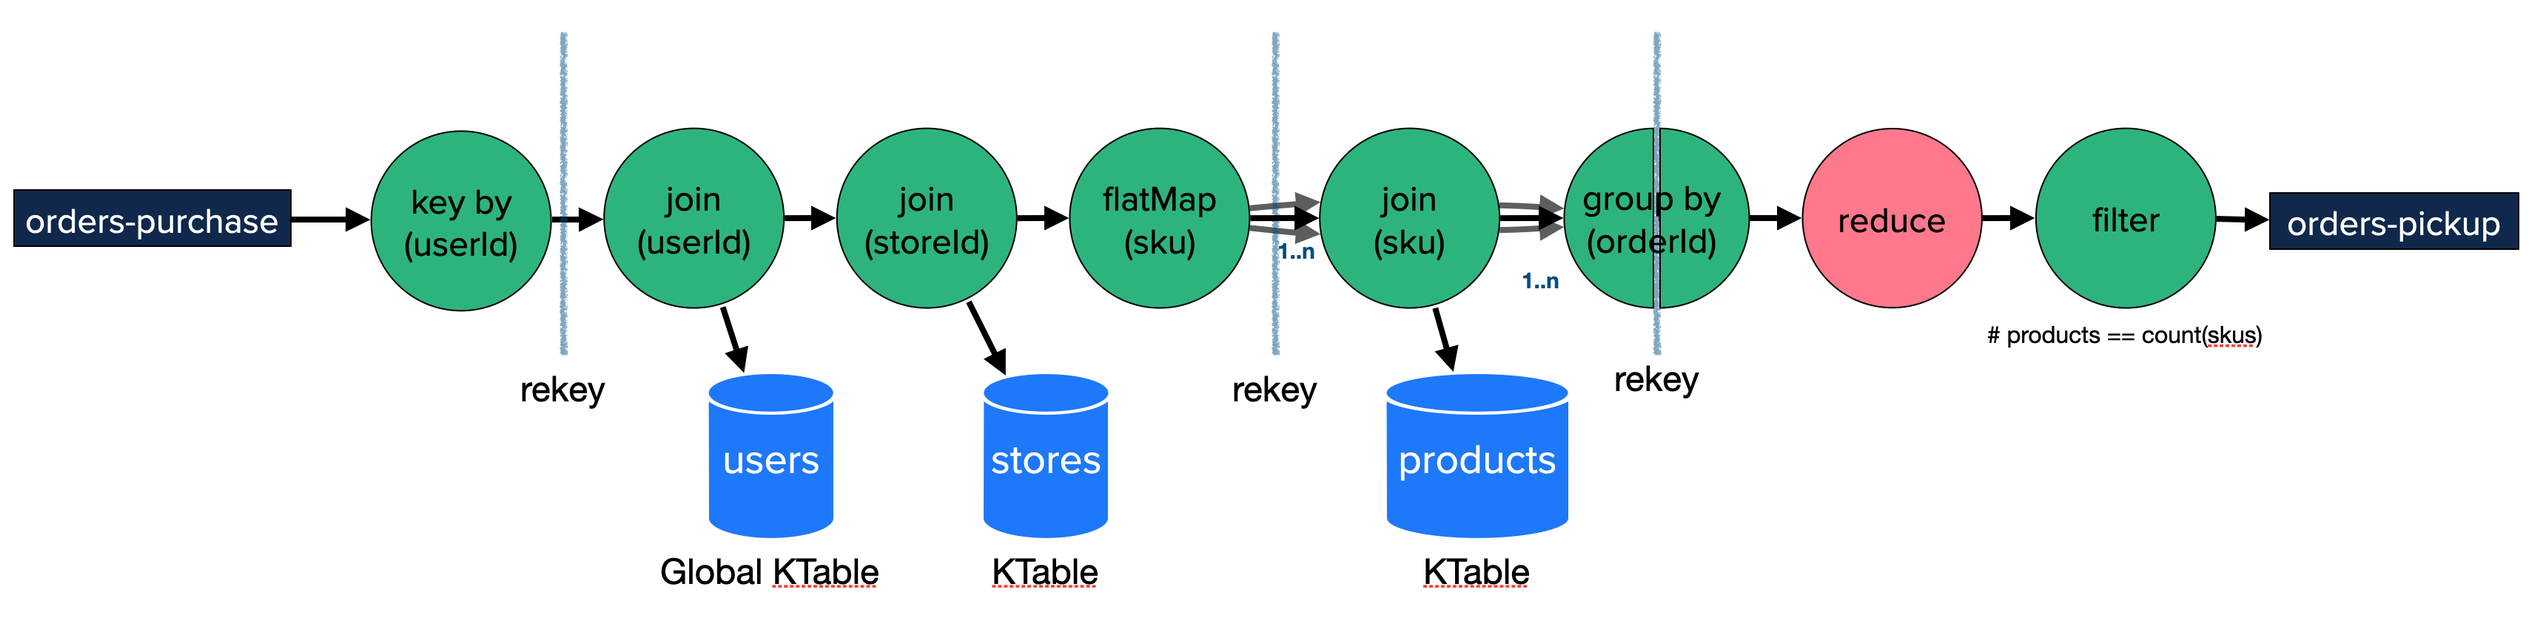
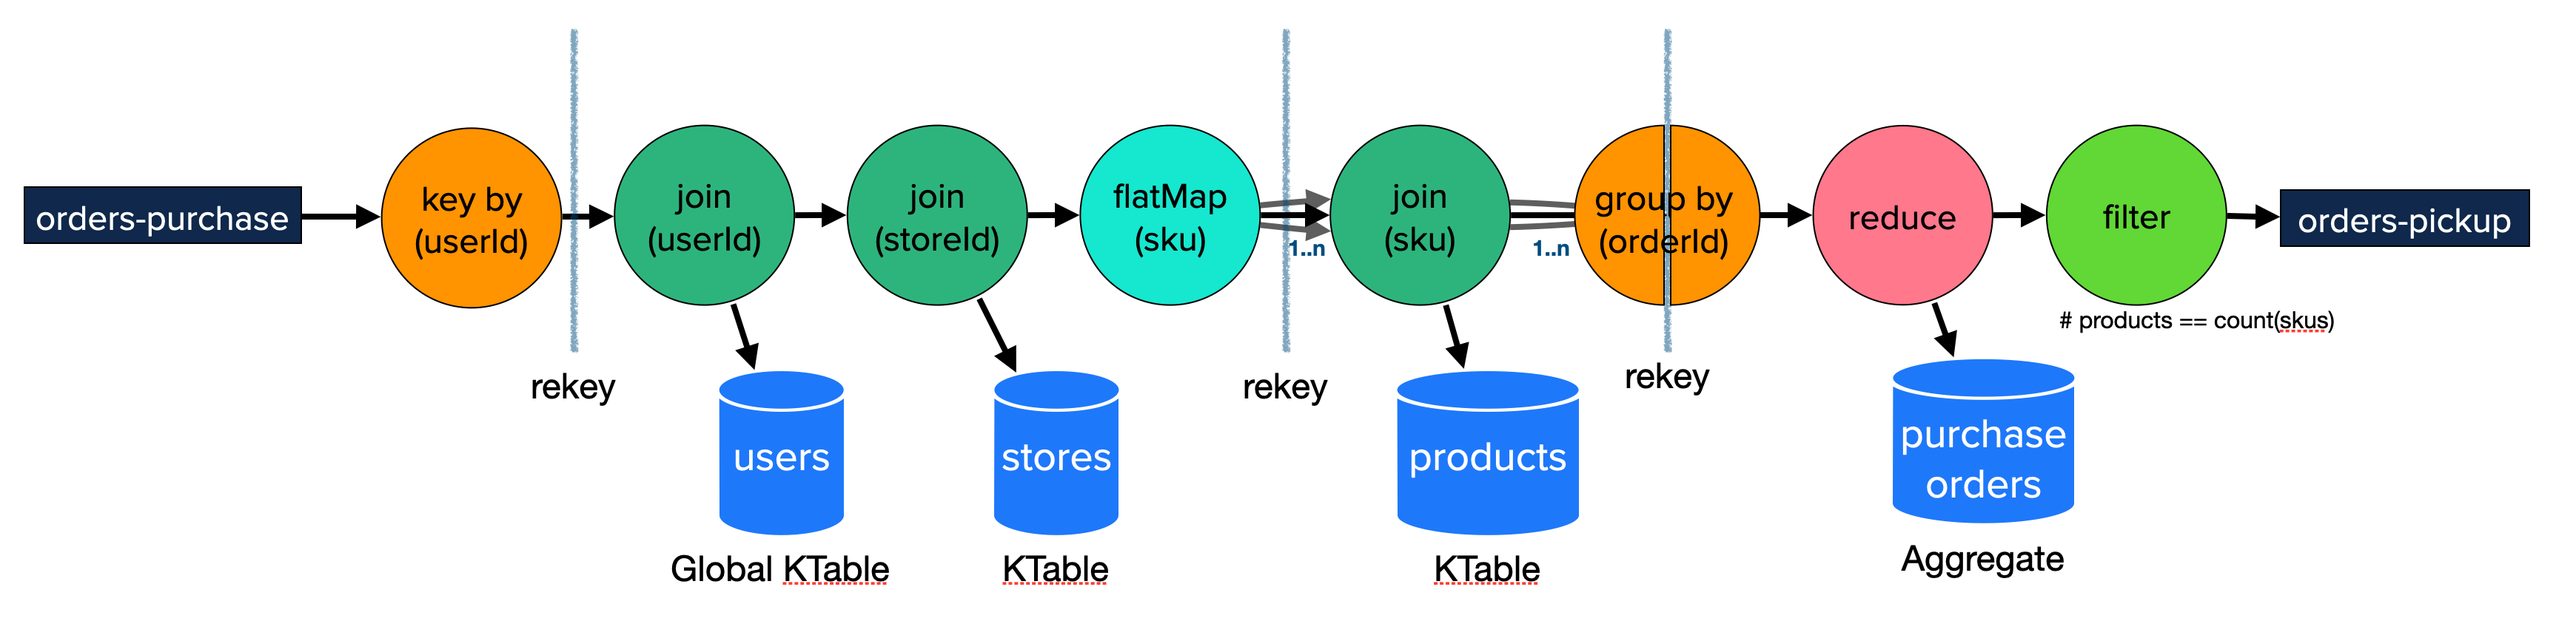
improving readme documentation.

diff --git a/README.md b/README.md
@@ -21,35 +21,36 @@ The primary stream of data flowing for purchase-order is shown in this diagram. 
 This is a logical representation of the topology based on the DSL components, the actual topology built includes additions source and
 sink nodes to handling the rekey process. 
 
-![Purchase Order Topoloyg](./doc/purchase-order-topology.png)
-_Purchase Order Application_
+![Purchase Order Topology](./doc/purchase-order-topology.png)
+
+The reason for the *group by (orderId)* being split with a re-key is that is indeed what happens when the logical DSL topology is built
+by the StreamsBuilder. It is important to understand that here, expecially since it is this topic that is then leveraged for analytics.
 
 ## SKU Analytic Application
 
-The second application is analytics on the SKU purchased in those orders. It tracks the rekeyed order by SKU and builds
-up windowed analytics. This includes all window types: `tumbling`, `hopping`, `sliding`, `session`, and even `none` as a non-window
-solution. This aggregations are tracking the quantity purchased on the given SKU for the given type of window. Now, from 
+The second application is analytics on the SKU purchased in those orders. When the order/item message (when skus are priced) are joined
+back to the order, this application listens on that topic and extracts information to keep track of SKUs purchased over a given period of time (window).
+
+It tracks the rekeyed order by SKU and builds up windowed analytics. This includes all window types: `tumbling`, `hopping`, `sliding`, `session`, and 
+even `none` as a non-window deployment. These aggregations are tracking the quantity purchased on the given SKU for the given type of window. Now, from 
 a real-world use-case scenario, I wouldn't use `session` windows for such aggregation; but having the same application with all
 windowing options makes it a lot easyer to see and compare the metrics between them.
 
+![SKU Analytics Topology](./doc/sku-analytics-topology.png)
+
+## Details (not just a TL;TR)
+
 This project:
-* extensively leverages Docker and Docker Compose.
+* Extensively leverages Docker and Docker Compose.
 * Applications are built with Java 17 and run on a Java 17 JVM.
 * Kafka leverages Confluent Community Edition containers, which run with a Java 11 JVM.
 * Has Grafana dashboards for Kafka Cluster, Kafka Streams, Consumer, and Producer.
   * Supports a variety of cluster configurations to better showcase the Kafka Cluster metrics and validate dashboards are build
 with the various options.
 
-## sss
-
-  * You will be prompted to select the Apache Kafka instance to run. In addition to kafka stream metrics, there
-are complete dashboards for kafka brokers and controllers, and the various clusters provide seeing how dashboards
-are impacted for each cluster. The Hybrid cluster is to ensure that the dashboards correctly handle the kafka
-node types of `broker`, `controller`, and `broker, controller` successfully.
-  * The `cluster-lb` is used to allow for adding network delays to/from a particular broker; this is an advance configuration.
-  * The `cluster-sasl` is to allow for the dashboards around authentication to have content; certificates needs to be generated;
-see the [readme](./cluster-sasl/certificates/README.md) in cluster-sasl/certificates.
-  * Here is the current configuration, but please use the scripts display, to ensure that it hasn't been updated (without a document refresh here).
+* Setup and Configuration all in the `./scripts/startup.sh` script; execute from root directory to get everything running. You
+will be prompted to select an Apache Kafka Cluster to start. Typically, I suggest `(2) cluster` is having more brokers is more
+realistic experience, but if you have limited memory/cpu on your machine, use `(1) cluster-1`.
 
 ```
 1. cluster-1       --  1 node (broker and controller)
@@ -61,52 +62,130 @@ see the [readme](./cluster-sasl/certificates/README.md) in cluster-sasl/certific
 7. cluster-lb      --  4 brokers, 1 raft controller, an nginx lb (9092)
 ```
 
-* Shut it all down, use `./scripts/teardown.sh` script. This will also remove all volumes.
+The other options are for more advance scenarios. `(3) cluster-3ctrls` is a typical deployment (3+ brokers and 3 controllers).
+The hybrid `(4) cluster-hybrid` is to ensure that the Kafka Cluster dashboards correctly handle metrics "math" by having a node
+that is both a `broker` and `controller` while also having nodes that are just `broker` and just `controller`. The `(5) cluster-zk` is 
+to make sure the dashboards still support `zookeeper`. `(6) cluster-sasl` is to be able to check the `authentication` dashboard
+provided in the Kafka Cluster dashboards, it is also to show how security works with setting up a Kafka Cluster. Be sure to generate
+the certificates [readme](./cluster-sasl/certificates/README.md). The last cluster `(7) cluster-lb` has an nginx proxy for each broker that allows you to navigate
+into it and use linux's traffic-controller `tc` to add network latencies. The best way to learn if your dashboards are useful, is to 
+observe them when things are not going well; this provides that scenario.
 
-* State Store UI
+### Grafana Dashboard
+
+All of the grafana dashboards are handled with a local `Grafana` and `Prometheus` instance running from the `monitoring` module.
+
+  * `https://localhost:3000`
+  * Credentials (configuration is currently configured allowing edit access, even w/out login)
+    * username: `admin`
+    * password: `grafana`
+
+### State Store UI
+
+Both the `purchase-order` and `aggregate` applications have a simple UI allowing for innspection of the state stores.
 
   * `https://localhost:8888`
   * There are two pages to allow for inspection of the purchase-order state store and aggregate state store.
   * This allows for learning about state stores and windowing.
-  
-* Grafana Dashboard 
 
-  * `https://localhost:3000`
-  * Credentials:
-    * username: `admin`
-    * password: `grafana`
+* Shutdown
+
+  * Shut it all down, use `./scripts/teardown.sh` script. This will also remove all volumes.
+
 
 ## Dashboards
 
-There are 9 Kafka Streams dashboards as part of this project.
+There are 12 Kafka Streams dashboards currently as part of this project. In addition, there are dashboards for Kafka Cluster,
+Producer, Consumer, and JVM.  This documentation is focused on the Kafka Stream dashboards, but feel free to explore the
+other dashboards, especially for learning or gaining ideas and examples for building dashboards for your own organizations.
 
 ### 01 - Topology
 
 * This dashboard will give you insights into the Kafka Streams Topology along  with the instance/thread a task is assigned.
 * Aids greatly in understanding the task_id (subtopology_partition) used by other dashboards.
 
-![Kafka Streams Topology](./doc/topology-dashboard.png)
+![Kafka Streams Topology](./doc/01-topology.png)
 
 ### 02 - Threads
 
- * Process, Commit, Poll statistics on each thread.
- * The graph will keep thread/instances separated while the number is total (of what is selected).
+* Process, Commit, Poll statistics on each thread.
+* The graph will keep thread/instances separated while the number is total (of what is selected).
 
-![Kafka Streams Threads](./doc/threads-dashboard.png)
+![Kafka Streams Threads](./doc/02-threads.png)
 
-### 03 - Tasks
-### 04 - Tasks 2E2
-### 05 - Processes
-### 06 - Processes 2E2
+### 03 - Topic
+
+* Since 3.3, Kafka Streams has topic rate messages for capturing bytes and messages produced and consumed for a given topic.
+* This dashboard provides a top-level summary of the variable selection as well as a graphical break-down on each partition.
+
+![Kafka Streams Topics](./doc/03-topics.png)
+
+### 04 - Tasks
+
+* It provides _processing_ information and _record_ information.
+
+![Kafka Streams Tasks](./doc/04-tasks.png)
+
+### 05 - Tasks 2E2
+
+* Task end-to-end metrics (introduced in Kafka 2.4) showcases the e2e metrics.
+* It allows for a breakdown by both sub-topology and by partition. An `application`
+must be selected and is defaulted. 
+
+![Kafka Streams Tasks e2e](./doc/05-tasks-e2e.png)
+
+### 06 - Processes
+
+* These are `debug` level metrics. 
+* The process is selected by name, but the graphs show it by task (subtopology_partition).
+
+![Kafka Streams Processes](./doc/06-processes.png)
+
 ### 07 - Record Cache
+
+* The record cache is for materialized stores that have caching enabled.
+* The metric is hit-ratio (max, avg, min). 
+
+![Kafka Streams Record Cache](./doc/07-record-cache.png)
+
 ### 08 - StateStore (put/fetch/delete/size)
 
 * Shows the put, get/fetch, delete, and count statistics into a single dashboard.
+* puts _get_ and _fetch_ in the same dashboard, since implementation of the store depends
+on which one is used, but only one or the other is used.
+* _remove_ and _delete_ are also on the same panel, for the same reason.
 
-![Kafka Streams Statestore](./doc/statestore-dashboard.png)
+![Kafka Streams StateStore](./doc/08-statestore.png)
 
-### 09 - StateStore
+### 09 - StateStore (rate)
 
+* The ability to view the rate metrics of the state-stores.
+* `put`, `get`, `delete`, and more.
+
+![Kafka Streams StateStore (rate)](./doc/09-statestore-rate.png)
+
+### 10 - StateStore (latency)
+
+* The ability to view the latency metrics of the state-stores.
+* `max` and `avg` latency metrics
+* The same metrics as for rate, just like `put`, `get`, `delete`.
+
+![Kafka Streams StateStore (latency)](./doc/10-statestore-latency.png)
+
+### 11 - Statestore (RocksDB)
+
+* All of the RocksDB metrics that are exposed through Kafka-Streams API.
+
+![Kafka Streams StateStore (rocksdb)](./doc/11-statestore-rocksdb.png)
+
+### 12 - Task Ratio
+
+* The time a given task is running within the stream thread.
+* Each stream thread is displayed in its own panel.
+* For this application, this information hasn't been the most useful; not sure if
+more sampling is needed to get a better display of data, or if it is just the nature of this metric.
+
+![Kafka Streams Tasks (ratio)](./doc/12-tasks-ratio.png)
 
 ## Docker 
 
@@ -114,9 +193,13 @@ There are 9 Kafka Streams dashboards as part of this project.
 
 * to minimize having to start up all components, separate `docker-compose.yml` for each logical-unit and a common bridge network `ksd`.
 
-* docker compose .env files used to keep container names short and consistent but hopefully not clash with any existing docker containers you are using.
+* docker compose `.env` files used to keep container names short and consistent but hopefully not clash with any existing docker containers you are using.
 
 * Kafka Brokers name/ports
+
+Apache Kafka Clients communicate directly with each broker, and it is up to the broker to tell the client its host & port for communication. This
+means that each broker needs a unique address for communication. Within docker, this means that each broker needs a unique localhost:port so any
+application running on your local machine can talk to each broker independently.
 
   | broker   | internal (container) bootstrap-servers | external (host-machine) bootstrap-servers |
   |---|---|---|
@@ -124,6 +207,19 @@ There are 9 Kafka Streams dashboards as part of this project.
   | broker-2 | broker-2:9092 | localhost:29092                        |
   | broker-3 | broker-3:9092 | localhost:39092                        |
   | broker-4 | broker-4:9092 | localhost:49092                        |
+
+This is not the case for broker-discovery, that discovery can be generalized, but since Kafka communicates the brokers access information within
+the broker metadata, it must always have the scenario as shown above.
+
+Currently, each `broker-1` in each cluster will add a port mapping of 9092 to the 19092, allowing for `bootstrap.servers=localhost:19092` or `bootstrap.servers=localhost:9092`.
+So if you see this extra mapping in the `broker-1` entry in the clusters, it is there only to aid in the initial connection the client makes to the cluster, one of the first
+messages returned will be a `metadata` response that will include the topics/partitions needed to communicat to the various `topic-partition` the client
+needs to send data to or read data from.
+
+```yaml
+      - '19092:19092'
+      - '9092:19092'
+```
 
 * The Kafka applications can run on the host machine utilizing the external names, the applications
 can run in containers using the internal hostnames.
@@ -141,15 +237,9 @@ image needs to untar the distribution on startup.
 
   * To reduce build times, the Docker image is only built if it doesn't exist or if `-Pforce-docker=true` is part of the build process. 
 
-## In addition to Kafka Streams Metrics, this project has examples on best-practices for working with Kafka Streams and building out some ideas of making your deployments easier.
-
-  * leaving group on close, even with stateful-sets
-  * how to use environment variables to overide stream settings
-  * naming your processors
-  * naming your state-stores
-
 ## OpenSource libraries
 
+These applications are build with
 * kafka-streams
 * kafka-clients
 * jackson
@@ -166,19 +256,4 @@ While I do not use `lombok` for enterprise applications, it does come in handle 
 
 ## Tools
 
-The tools project provides custom deserializers to use to inspect key elements on a change-log topic.
-
-* `scripts/enable-custom-tools-derserialer` will create a symbolic link to the tools jar file. This allows
-for `kafka-console-consumer` to utilize those deserializers.  Inspect the script before running, to understand
-the modification it will do (expecially if your installation of Apache Kafka is not Confluent's.)
-
-```
-kafka-console-consumer \
-   --bootstrap-server localhost:19092 \
-   --property print.timestamp=true \
-   --property print.partition=true \
-   --property print.key=true \
-   --property key.separator=\| \
-   --key-deserializer=io.kineticedge.ksd.tools.serde.SessionDeserializer \
-   --topic analytics_session-SESSION-aggregate-purchase-order-changelog
-```
+* See Tools [README](./tools/README.md) for the benefits this can provide.

diff --git a/tools/README.md b/tools/README.md
@@ -1,0 +1,18 @@
+## Tools
+
+The tools project provides custom deserializers to use to inspect key elements on a change-log topic.
+
+* `scripts/enable-custom-tools-derserialer` will create a symbolic link to the tools jar file. This allows
+  for `kafka-console-consumer` to utilize those deserializers.  Inspect the script before running, to understand
+  the modification it will do (expecially if your installation of Apache Kafka is not Confluent's.)
+
+```
+kafka-console-consumer \
+   --bootstrap-server localhost:19092 \
+   --property print.timestamp=true \
+   --property print.partition=true \
+   --property print.key=true \
+   --property key.separator=\| \
+   --key-deserializer=io.kineticedge.ksd.tools.serde.SessionDeserializer \
+   --topic analytics_session-SESSION-aggregate-purchase-order-changelog
+```
